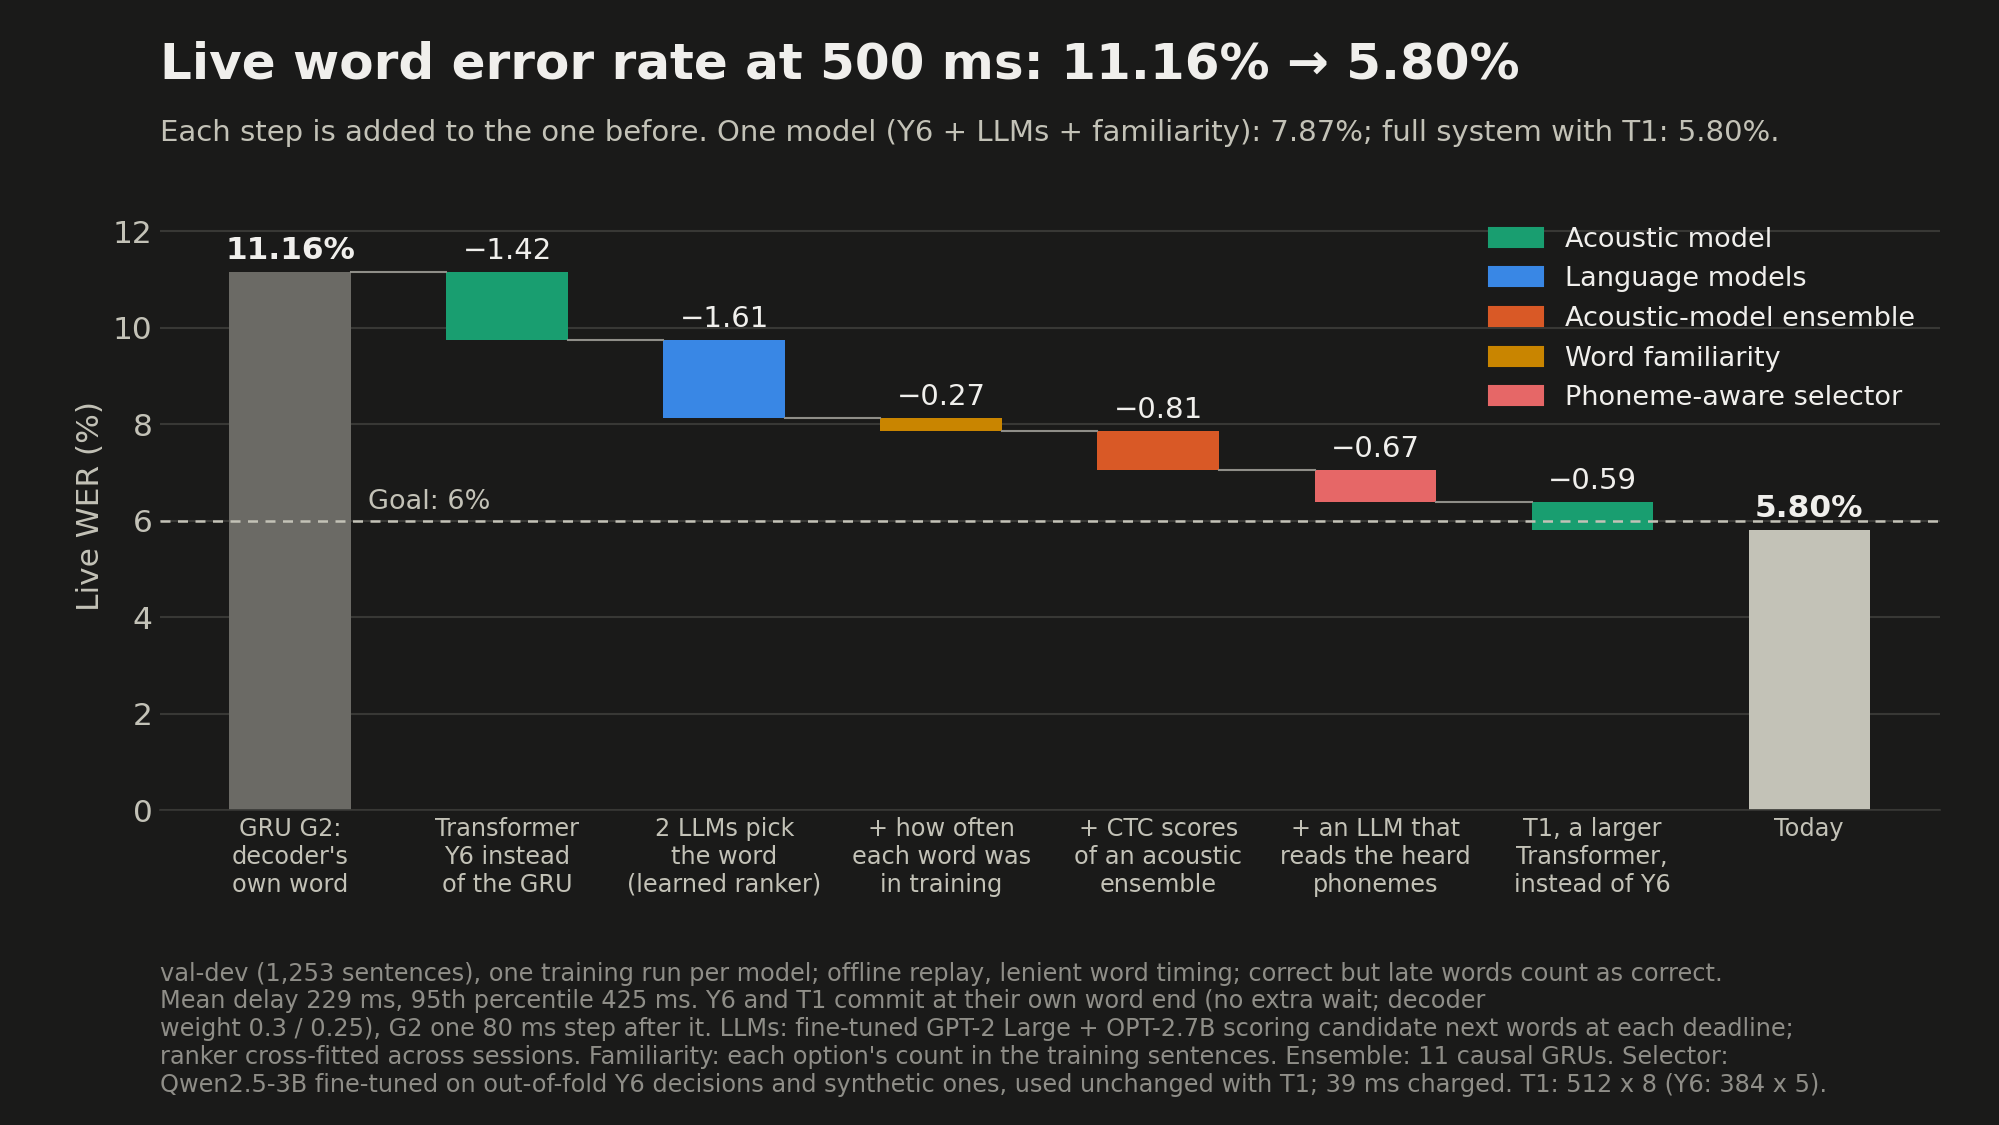
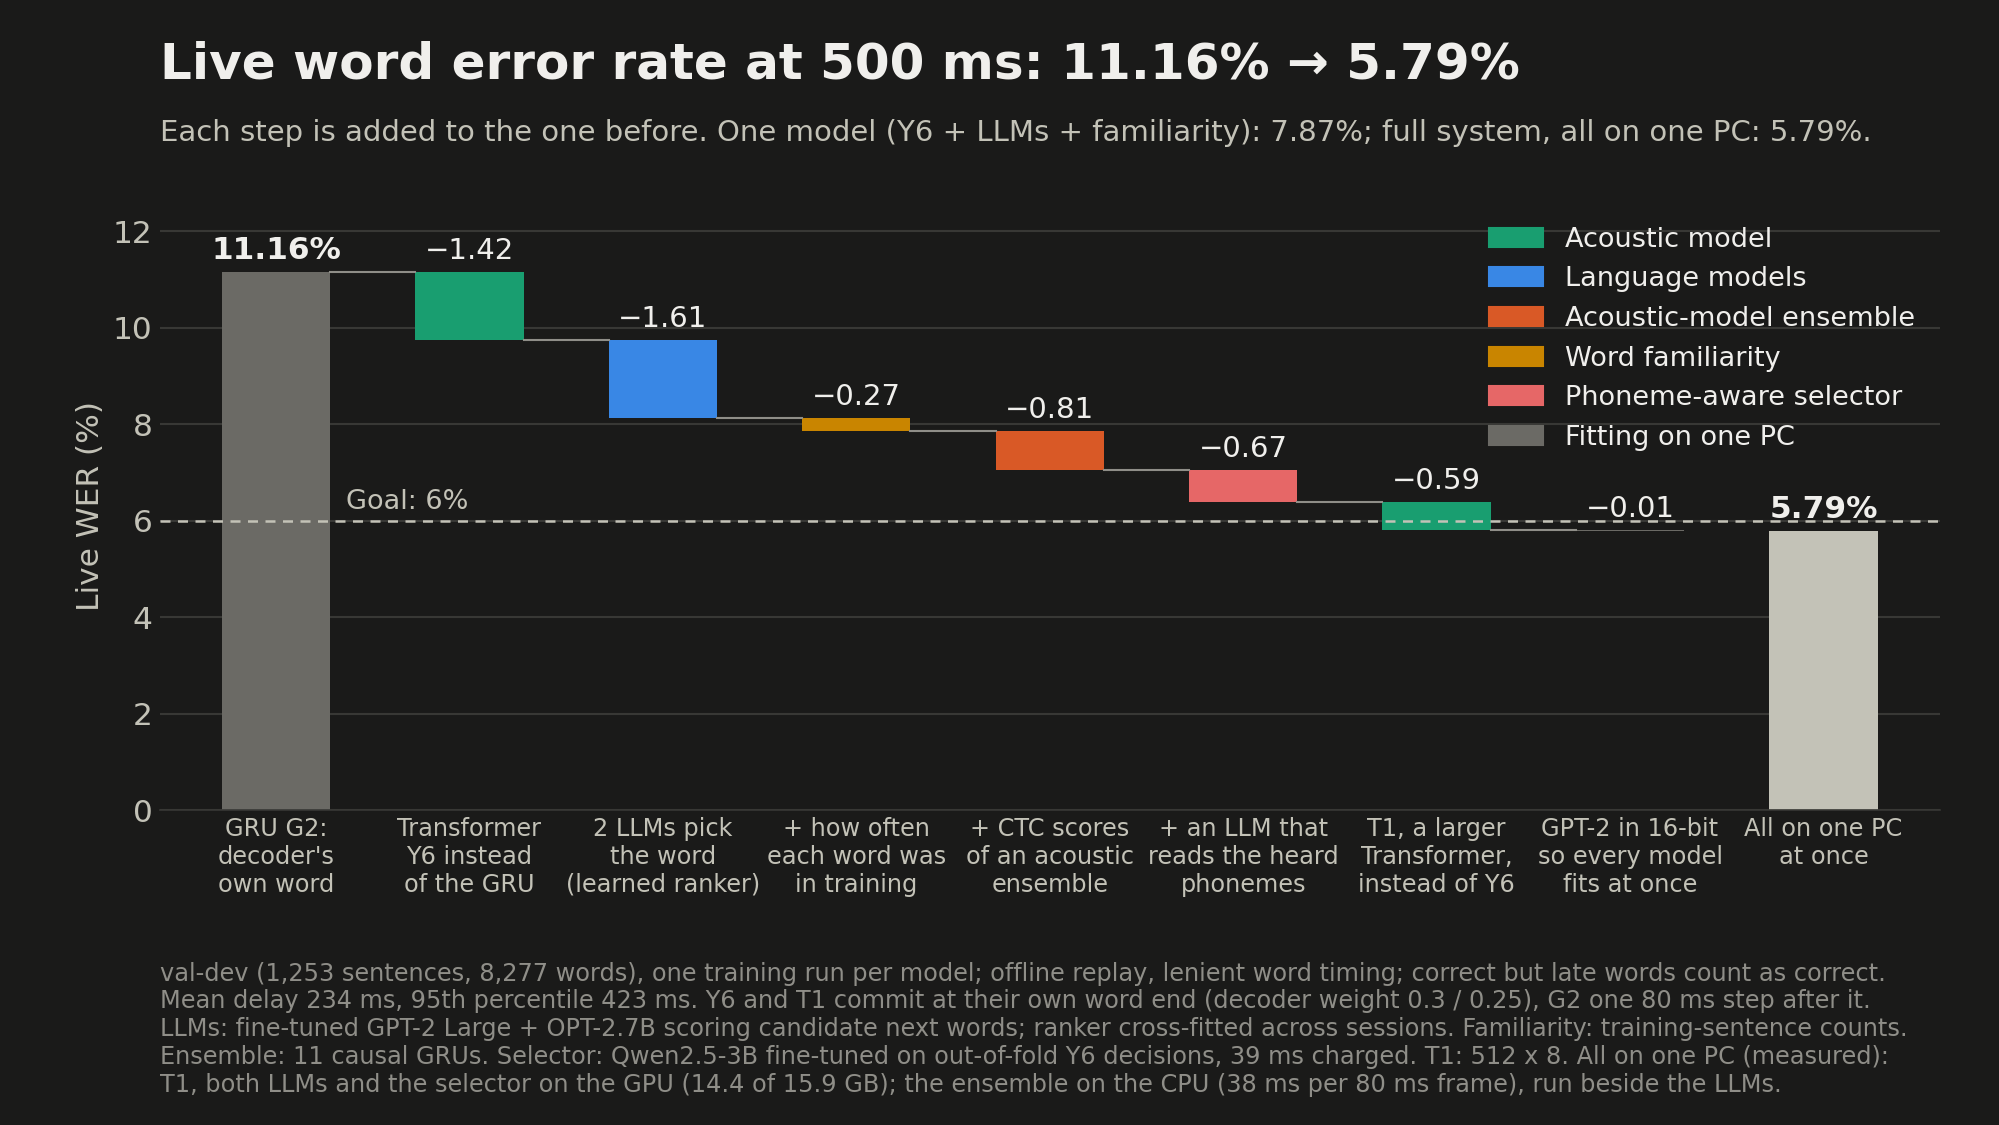
Waterfall ends at the full system with every model loaded on one PC at once: GPT-2 Large in 16-bit (-0.01), 5.79% at 500 ms (GPU 14.4 of 15.9 GB measured, 11-GRU ensemble on the CPU); README note: 1.5 s with the 11 causal GRUs 5.53% (replay, not yet run live)

diff --git a/README.md b/README.md
@@ -82,8 +82,13 @@ A second track on the Makin lab's ECoG dataset is intended; access and integrati
 
 <picture>
   <source media="(prefers-color-scheme: dark)" srcset="docs/images/dark/01_live_wer_waterfall_500ms.png">
-  <img src="docs/images/light/01_live_wer_waterfall_500ms.png" alt="Waterfall chart of live word error rate at 500 ms: GRU G2's own words 11.16%; Transformer Y6 instead of the GRU -1.42; two language models choosing the word -1.61; word familiarity -0.27 (one model: 7.87%); CTC scores of an acoustic-model ensemble -0.81; an LLM that reads the heard phonemes -0.67 (6.39%); T1, a larger Transformer, deciding instead of Y6 -0.59; result 5.80%.">
+  <img src="docs/images/light/01_live_wer_waterfall_500ms.png" alt="Waterfall chart of live word error rate at 500 ms: GRU G2's own words 11.16%; Transformer Y6 instead of the GRU -1.42; two language models choosing the word -1.61; word familiarity -0.27 (one model: 7.87%); CTC scores of an acoustic-model ensemble -0.81; an LLM that reads the heard phonemes -0.67 (6.39%); T1, a larger Transformer, deciding instead of Y6 -0.59; GPT-2 Large in 16-bit so every model fits on one PC at once -0.01; result 5.79% with every model loaded at once.">
 </picture>
+
+The last step runs the same full system with every model loaded on one PC at once (measured: T1, both language models
+and the selector on the GPU, 14.4 of 15.9 GB with GPT-2 Large in 16-bit; the 11-GRU ensemble on the CPU, 38 ms per 80
+ms frame). This is a replay; the pipeline has not yet run live as one program. At 1.5 s the 26-model ensemble cannot
+keep up on the CPU; with the 11 causal GRUs instead it gives 5.53% (5.51% over four session splits).
 
 ### GRU or Transformer, one acoustic model each
 
